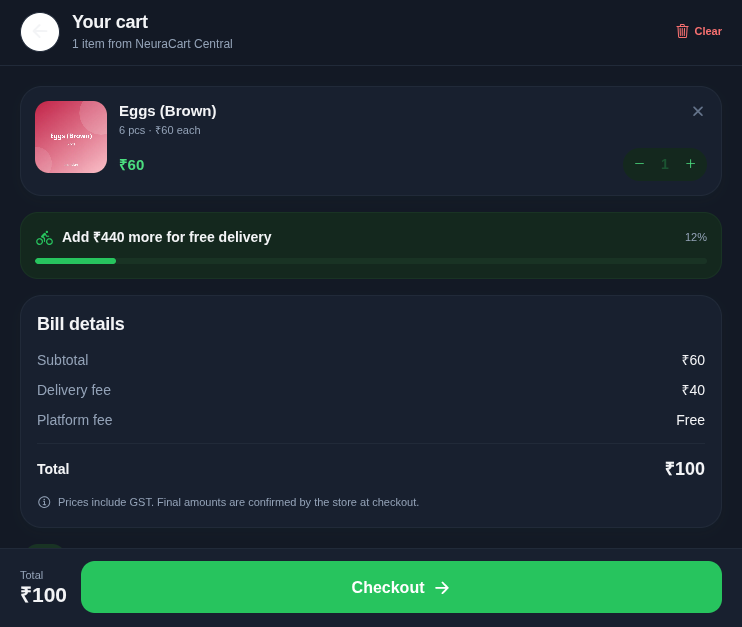
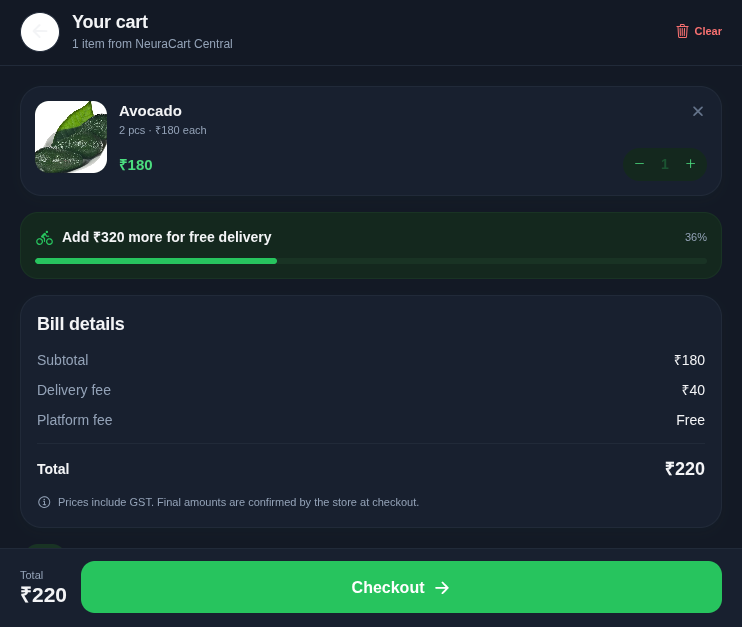
feat(catalog): double catalogue to 38 SKUs with real CC-licensed photography
- add papaya, pineapple, watermelon, lemons, avocado, cucumber, cauliflower,
  cabbage, peas, beans, ginger, garlic, chillies, mushrooms, wings, drumsticks,
  pomfret, keema and salmon
- commit 800x600 WebP product photos in backend/uploads/seed with attribution
  in docs/IMAGE_CREDITS.md
- seed: use NC- order numbers, NEURA50 referral code, refresh demo screenshots
- README: real catalogue screenshots and photography credits

diff --git a/backend/prisma/seed.ts b/backend/prisma/seed.ts
@@ -34,6 +34,11 @@ const PRODUCTS: ProductSeed[] = [
   { name: 'Oranges (Nagpur)', category: 'FRUITS', unit: '1 kg', price: 90, stock: 30, featured: false },
   { name: 'Grapes (Green)', category: 'FRUITS', unit: '500 g', price: 70, stock: 30, featured: false },
   { name: 'Pomegranate', category: 'FRUITS', unit: '1 kg', price: 160, stock: 20, featured: false },
+  { name: 'Papaya', category: 'FRUITS', unit: '1 pc', price: 55, stock: 25, featured: false },
+  { name: 'Pineapple', category: 'FRUITS', unit: '1 pc', price: 70, stock: 20, featured: false },
+  { name: 'Watermelon', category: 'FRUITS', unit: '1 pc', price: 90, stock: 15, featured: false },
+  { name: 'Lemons', category: 'FRUITS', unit: '250 g', price: 30, stock: 40, featured: false },
+  { name: 'Avocado', category: 'FRUITS', unit: '2 pcs', price: 180, stock: 12, featured: true },
   { name: 'Tomatoes (Hybrid)', category: 'VEGETABLES', unit: '1 kg', price: 40, stock: 50, featured: true },
   { name: 'Onions', category: 'VEGETABLES', unit: '1 kg', price: 35, stock: 60, featured: false },
   { name: 'Potatoes', category: 'VEGETABLES', unit: '1 kg', price: 30, stock: 60, featured: false },
@@ -41,12 +46,26 @@ const PRODUCTS: ProductSeed[] = [
   { name: 'Carrots', category: 'VEGETABLES', unit: '500 g', price: 45, stock: 35, featured: false },
   { name: 'Broccoli', category: 'VEGETABLES', unit: '1 pc', price: 80, stock: 20, featured: false },
   { name: 'Capsicum (Green)', category: 'VEGETABLES', unit: '500 g', price: 40, stock: 30, featured: false },
+  { name: 'Cucumber', category: 'VEGETABLES', unit: '500 g', price: 35, stock: 30, featured: false },
+  { name: 'Cauliflower', category: 'VEGETABLES', unit: '1 pc', price: 45, stock: 25, featured: false },
+  { name: 'Cabbage', category: 'VEGETABLES', unit: '1 pc', price: 35, stock: 25, featured: false },
+  { name: 'Green Peas', category: 'VEGETABLES', unit: '500 g', price: 60, stock: 20, featured: false },
+  { name: 'French Beans', category: 'VEGETABLES', unit: '500 g', price: 50, stock: 20, featured: false },
+  { name: 'Ginger', category: 'VEGETABLES', unit: '250 g', price: 40, stock: 25, featured: false },
+  { name: 'Garlic', category: 'VEGETABLES', unit: '250 g', price: 45, stock: 25, featured: false },
+  { name: 'Green Chillies', category: 'VEGETABLES', unit: '100 g', price: 15, stock: 30, featured: false },
+  { name: 'Button Mushrooms', category: 'VEGETABLES', unit: '200 g', price: 70, stock: 15, featured: false },
   { name: 'Chicken Breast', category: 'MEAT', unit: '500 g', price: 220, stock: 15, featured: true },
   { name: 'Chicken Curry Cut', category: 'MEAT', unit: '1 kg', price: 280, stock: 15, featured: false },
   { name: 'Mutton Curry Cut', category: 'MEAT', unit: '500 g', price: 420, stock: 10, featured: false },
   { name: 'Fish (Rohu)', category: 'MEAT', unit: '1 kg', price: 260, stock: 10, featured: false },
   { name: 'Prawns (Medium)', category: 'MEAT', unit: '500 g', price: 350, stock: 8, featured: false },
   { name: 'Eggs (Brown)', category: 'MEAT', unit: '6 pcs', price: 60, stock: 30, featured: false },
+  { name: 'Chicken Wings', category: 'MEAT', unit: '500 g', price: 200, stock: 12, featured: false },
+  { name: 'Chicken Drumsticks', category: 'MEAT', unit: '500 g', price: 210, stock: 12, featured: false },
+  { name: 'Fish (Pomfret)', category: 'MEAT', unit: '1 kg', price: 480, stock: 6, featured: false },
+  { name: 'Mutton Keema', category: 'MEAT', unit: '500 g', price: 450, stock: 8, featured: false },
+  { name: 'Salmon Fillet', category: 'MEAT', unit: '250 g', price: 520, stock: 6, featured: true },
 ];
 
 const RIDERS = [
@@ -161,7 +180,7 @@ async function createOrders(input: {
   riderUserId: string;
   products: Map<string, { id: string; price: Prisma.Decimal }>;
 }) {
-  const deliveredNumber = 'LM-20261021-0001';
+  const deliveredNumber = 'NC-20261021-0001';
   const deliveredExists = await prisma.order.findUnique({
     where: { orderNumber: deliveredNumber },
   });
@@ -237,7 +256,7 @@ async function createOrders(input: {
     });
   }
 
-  const activeNumber = 'LM-20261022-0001';
+  const activeNumber = 'NC-20261022-0001';
   const activeExists = await prisma.order.findUnique({
     where: { orderNumber: activeNumber },
   });
@@ -338,8 +357,8 @@ async function seedV2(input: {
   });
   await prisma.referralCode.upsert({
     where: { userId: customer.id },
-    create: { userId: customer.id, code: 'SUJAN50' },
-    update: {},
+    create: { userId: customer.id, code: 'NEURA50' },
+    update: { code: 'NEURA50' },
   });
 
   // ——— Recipes ———
@@ -728,7 +747,7 @@ async function main(): Promise<void> {  if (
   console.log('Admin:    admin@neuracart.app');
   console.log('Customer: customer@neuracart.app');
   console.log('Rider:    driver1@neuracart.app / NeuraCart@123');
-  console.log('Products: 19');
+  console.log('Products: 38');
 }
 
 main()

diff --git a/backend/src/modules/money/money.service.ts b/backend/src/modules/money/money.service.ts
@@ -56,7 +56,7 @@ export async function ensureReferral(tx: MoneyClient, userId: string) {
 }
 
 function makeReferralCode(userId: string): string {
-  // SUJAN50 style: first 5 of name aren't reliable here; use base32 of uuid.
+  // Referral style: first 5 of name aren't reliable here; use base32 of uuid.
   const alphabet = 'ABCDEFGHJKLMNPQRSTUVWXYZ23456789';
   let code = '';
   for (const char of userId.replace(/-/g, '')) {

diff --git a/backend/src/utils/orderNumber.ts b/backend/src/utils/orderNumber.ts
@@ -22,7 +22,7 @@ function istDayBounds(now: Date): { start: Date; end: Date } {
 }
 
 /**
- * Generates LM-YYYYMMDD-0001 using today's IST order count.
+ * Generates NC-YYYYMMDD-0001 using today's IST order count.
  * Must be called inside the order-placement transaction; retry on P2002.
  */
 export async function nextOrderNumber(

diff --git a/docs/IMAGE_CREDITS.md b/docs/IMAGE_CREDITS.md
@@ -1,0 +1,46 @@
+# Product image credits
+
+The demo storefront ships with real product photography. Every image in `backend/uploads/seed/` was downloaded from [Wikimedia Commons](https://commons.wikimedia.org/), cropped to 800×600 and re-encoded as WebP for fast loading. Images remain under the license shown below; follow the source link for the full license text and original file.
+
+| Product | Original file | Author | License | Source |
+| --- | --- | --- | --- | --- |
+| Bananas (Robusta) | Bunch of bananas on sale.jpg | Wilfredor | [CC0](http://creativecommons.org/publicdomain/zero/1.0/deed.en) | [Commons](https://commons.wikimedia.org/wiki/File:Bunch_of_bananas_on_sale.jpg) |
+| Apples (Shimla) | Red Apple.jpg | Abhijit Tembhekar from Mumbai, India | [CC BY 2.0](https://creativecommons.org/licenses/by/2.0) | [Commons](https://commons.wikimedia.org/wiki/File:Red_Apple.jpg) |
+| Mangoes (Alphonso) | Mangos - single and halved.jpg | Ivar Leidus | [CC BY-SA 4.0](https://creativecommons.org/licenses/by-sa/4.0) | [Commons](https://commons.wikimedia.org/wiki/File:Mangos_-_single_and_halved.jpg) |
+| Oranges (Nagpur) | Mandarin Oranges (Citrus Reticulata).jpg | Joe Ravi | [CC BY-SA 3.0](https://creativecommons.org/licenses/by-sa/3.0) | [Commons](https://commons.wikimedia.org/wiki/File:Mandarin_Oranges_(Citrus_Reticulata).jpg) |
+| Grapes (Green) | Green Grape 3.jpg | Martin Kozák | Public domain | [Commons](https://commons.wikimedia.org/wiki/File:Green_Grape_3.jpg) |
+| Pomegranate | Pomegranate fruit - whole and piece with arils.jpg | Ivar Leidus | [CC BY-SA 4.0](https://creativecommons.org/licenses/by-sa/4.0) | [Commons](https://commons.wikimedia.org/wiki/File:Pomegranate_fruit_-_whole_and_piece_with_arils.jpg) |
+| Papaya | Papaya - longitudinal section.jpg | Ivar Leidus | [CC BY-SA 4.0](https://creativecommons.org/licenses/by-sa/4.0) | [Commons](https://commons.wikimedia.org/wiki/File:Papaya_-_longitudinal_section.jpg) |
+| Pineapple | Pineapple fruit.jpg | Mibrahim74 | [CC BY 3.0](https://creativecommons.org/licenses/by/3.0) | [Commons](https://commons.wikimedia.org/wiki/File:Pineapple_fruit.jpg) |
+| Watermelon | Ripe watermelon Fruit.jpg | Salma kyari | [CC BY-SA 4.0](https://creativecommons.org/licenses/by-sa/4.0) | [Commons](https://commons.wikimedia.org/wiki/File:Ripe_watermelon_Fruit.jpg) |
+| Lemons | Lemon.jpg | André Karwath aka Aka | [CC BY-SA 2.5](https://creativecommons.org/licenses/by-sa/2.5) | [Commons](https://commons.wikimedia.org/wiki/File:Lemon.jpg) |
+| Avocado | Avocado IMGP1082.jpg | Nikodem Nijaki | [CC BY-SA 3.0](https://creativecommons.org/licenses/by-sa/3.0) | [Commons](https://commons.wikimedia.org/wiki/File:Avocado_IMGP1082.jpg) |
+| Tomatoes (Hybrid) | Tomatoes.jpg | Wilfredor | [CC0](https://creativecommons.org/publicdomain/zero/1.0/) | [Commons](https://commons.wikimedia.org/wiki/File:Tomatoes.jpg) |
+| Onions | Onion on White.JPG | Colin | [CC BY-SA 3.0](https://creativecommons.org/licenses/by-sa/3.0) | [Commons](https://commons.wikimedia.org/wiki/File:Onion_on_White.JPG) |
+| Potatoes | Potato tubers in pail.jpg | Ruslan V. Albitsky aka pauk | [CC BY-SA 3.0](https://creativecommons.org/licenses/by-sa/3.0) | [Commons](https://commons.wikimedia.org/wiki/File:Potato_tubers_in_pail.jpg) |
+| Spinach | Spinach leaves.jpg | Nillerdk | [CC BY 3.0](https://creativecommons.org/licenses/by/3.0) | [Commons](https://commons.wikimedia.org/wiki/File:Spinach_leaves.jpg) |
+| Carrots | Vegetable-Carrot-Bundle-wStalks.jpg | Evan-Amos | Public domain | [Commons](https://commons.wikimedia.org/wiki/File:Vegetable-Carrot-Bundle-wStalks.jpg) |
+| Broccoli | Broccoli DSC00861.png | David Monniaux | [CC BY-SA 3.0](http://creativecommons.org/licenses/by-sa/3.0/) | [Commons](https://commons.wikimedia.org/wiki/File:Broccoli_DSC00861.png) |
+| Capsicum (Green) | Green Bell Pepper.jpg | Gaurav Dhwaj Khadka | [CC BY-SA 4.0](https://creativecommons.org/licenses/by-sa/4.0) | [Commons](https://commons.wikimedia.org/wiki/File:Green_Bell_Pepper.jpg) |
+| Cucumber | Cucumber fruit in illorin.jpg | Eunice Ameh | [CC0](http://creativecommons.org/publicdomain/zero/1.0/deed.en) | [Commons](https://commons.wikimedia.org/wiki/File:Cucumber_fruit_in_illorin.jpg) |
+| Cauliflower | Cauliflower heads on a shelf.jpg | Jeffery Martin | [CC0](http://creativecommons.org/publicdomain/zero/1.0/deed.en) | [Commons](https://commons.wikimedia.org/wiki/File:Cauliflower_heads_on_a_shelf.jpg) |
+| Cabbage | Green cabbage.jpg | Camilopiz | [CC0](http://creativecommons.org/publicdomain/zero/1.0/deed.en) | [Commons](https://commons.wikimedia.org/wiki/File:Green_cabbage.jpg) |
+| Green Peas | India - Varanasi green peas - 2714.jpg | Jorge Royan | [CC BY-SA 3.0](https://creativecommons.org/licenses/by-sa/3.0) | [Commons](https://commons.wikimedia.org/wiki/File:India_-_Varanasi_green_peas_-_2714.jpg) |
+| French Beans | Four Different Varieties of Green Beans (Phaseolus vulgaris).jpg | Christopher Franz | [CC BY-SA 4.0](https://creativecommons.org/licenses/by-sa/4.0) | [Commons](https://commons.wikimedia.org/wiki/File:Four_Different_Varieties_of_Green_Beans_(Phaseolus_vulgaris).jpg) |
+| Ginger | Ginger Root.jpg | Sanjay Acharya | [CC BY-SA 4.0](https://creativecommons.org/licenses/by-sa/4.0) | [Commons](https://commons.wikimedia.org/wiki/File:Ginger_Root.jpg) |
+| Garlic | Opened garlic bulb with garlic clove.jpg | Dubravko Sorić SoraZG on Flickr | [CC BY 2.0](https://creativecommons.org/licenses/by/2.0) | [Commons](https://commons.wikimedia.org/wiki/File:Opened_garlic_bulb_with_garlic_clove.jpg) |
+| Green Chillies | Green chillies.jpg | Rajesh Dangi | [CC BY 2.5](https://creativecommons.org/licenses/by/2.5) | [Commons](https://commons.wikimedia.org/wiki/File:Green_chillies.jpg) |
+| Button Mushrooms | Agaricus bisporus Zuchtchampignon.JPG | böhringer friedrich | [CC BY-SA 2.5](https://creativecommons.org/licenses/by-sa/2.5) | [Commons](https://commons.wikimedia.org/wiki/File:Agaricus_bisporus_Zuchtchampignon.JPG) |
+| Chicken Breast | CHICKEN BREAST.jpg | MrBeastRapper | [CC BY-SA 4.0](https://creativecommons.org/licenses/by-sa/4.0) | [Commons](https://commons.wikimedia.org/wiki/File:CHICKEN_BREAST.jpg) |
+| Chicken Curry Cut | Raw chicken thighs.jpg | gran | [CC BY 3.0](https://creativecommons.org/licenses/by/3.0) | [Commons](https://commons.wikimedia.org/wiki/File:Raw_chicken_thighs.jpg) |
+| Mutton Curry Cut | Raw lamb cutlets with shredded ginger and rosemary.jpg | Photo by User:Salimfadhley | [CC BY-SA 3.0](http://creativecommons.org/licenses/by-sa/3.0/) | [Commons](https://commons.wikimedia.org/wiki/File:Raw_lamb_cutlets_with_shredded_ginger_and_rosemary.jpg) |
+| Fish (Rohu) | Labeo rohita.JPG | Khalid Mahmood | [CC BY-SA 4.0](https://creativecommons.org/licenses/by-sa/4.0) | [Commons](https://commons.wikimedia.org/wiki/File:Labeo_rohita.JPG) |
+| Prawns (Medium) | Liat Portal for Foodie Disorder - Fresh Shrimp.jpg | HaJunkiyada | [CC BY-SA 4.0](https://creativecommons.org/licenses/by-sa/4.0) | [Commons](https://commons.wikimedia.org/wiki/File:Liat_Portal_for_Foodie_Disorder_-_Fresh_Shrimp.jpg) |
+| Eggs (Brown) | Brown chicken eggs.jpg | Piasoft | [CC BY-SA 3.0](https://creativecommons.org/licenses/by-sa/3.0) | [Commons](https://commons.wikimedia.org/wiki/File:Brown_chicken_eggs.jpg) |
+| Chicken Wings | Raw chicken wings.jpg | ProjectManhattan | [CC BY-SA 3.0](https://creativecommons.org/licenses/by-sa/3.0) | [Commons](https://commons.wikimedia.org/wiki/File:Raw_chicken_wings.jpg) |
+| Chicken Drumsticks | Raw chicken drumsticks (3312851753).jpg | Geoff Peters from Vancouver, BC, Canada | [CC BY 2.0](https://creativecommons.org/licenses/by/2.0) | [Commons](https://commons.wikimedia.org/wiki/File:Raw_chicken_drumsticks_(3312851753).jpg) |
+| Fish (Pomfret) | Pomfret white.JPG | Noblevmy at Malayalam Wikipedia | [CC BY 3.0](https://creativecommons.org/licenses/by/3.0) | [Commons](https://commons.wikimedia.org/wiki/File:Pomfret_white.JPG) |
+| Mutton Keema | Hakket-oksekoed.jpg | Gajda-13 at Danish Wikipedia | [CC BY-SA 3.0](http://creativecommons.org/licenses/by-sa/3.0/) | [Commons](https://commons.wikimedia.org/wiki/File:Hakket-oksekoed.jpg) |
+| Salmon Fillet | Salmon fillet.JPG | BrokenSphere | [CC BY-SA 3.0](https://creativecommons.org/licenses/by-sa/3.0) | [Commons](https://commons.wikimedia.org/wiki/File:Salmon_fillet.JPG) |
+
+If you reuse this demo, keep this file with the images — the licenses above require attribution.

diff --git a/README.md b/README.md
@@ -104,7 +104,7 @@ Every AI feature shares one pipeline: **signal → context → guardrails → mo
 ### Customer app
 
 - **Auth** — email OTP (hashed, rate-limited, 10-minute expiry) and **Google sign-in** when OAuth credentials are configured. JWT access tokens (15 min) + rotating refresh tokens (7 days) with reuse detection.
-- **Shopping** — category tabs, search, featured rails, product detail, stock awareness, quantity stepper, cart persisted per user.
+- **Shopping** — 38 fruits, vegetables, and meat SKUs with real CC-licensed photography, category tabs, search, featured rails, product detail, stock awareness, quantity stepper, cart persisted per user.
 - **Checkout** — saved addresses, delivery vs store pickup, two-hour slots with capacity, wallet redemption, loyalty points, COD or online payment, order notes.
 - **After the order** — live status timeline, rider tracking map, cancellation windows, reorder, ratings and reviews, invoice-style totals.
 - **Money** — wallet ledger, loyalty tiers, referral code, near-expiry flash deals.
@@ -222,7 +222,7 @@ npm run db:seed
 cd ..
 ```
 
-The seed creates the store, ~30 products, recipes, slots, deals, a manager, a customer, and 10 riders.
+The seed creates the store, **38 products** across fruits, vegetables, and meat, recipes, slots, deals, a manager, a customer, and 10 riders. Every product ships with a real, CC-licensed photograph from Wikimedia Commons (committed under `backend/uploads/seed/`); see [`docs/IMAGE_CREDITS.md`](./docs/IMAGE_CREDITS.md) for attribution.
 
 ### 5. Run all four processes
 
@@ -406,7 +406,7 @@ cd delivery && npm run lint && npx tsc --noEmit
 - **Single store, single city.** Multi-store and multi-warehouse are deliberately out of scope; the schema keeps a `storeId` so it is not a rewrite.
 - **i18n is partial by design.** Tabs, home, profile, and help are translated; deeper screens fall back to English. The catalogue is English.
 - **No Redis.** OAuth state, rate limits, and the SSE fan-out are in-process. Run one API instance; horizontal scaling needs Redis.
-- **Local uploads.** Fine for dev; production should swap to S3-compatible storage.
+- **Local uploads.** Seed photography is committed for offline demos; manager uploads still land on local disk. Production should swap to S3-compatible storage.
 - **Google OAuth needs your credentials.** The code path, state handling, and UI gating are done; the round-trip is untested until keys exist.
 - **AI is optional.** With no `GEMINI_API_KEY`, every feature uses a deterministic fallback. That is intentional, not a stub.
 

diff --git a/plan.md b/plan.md
@@ -54,7 +54,7 @@ The source is a code-along, not a specification. It contains live debugging, inc
 1. Monorepo, env validation, Postgres, Prisma schema, migration, seed.
 2. Logger, response helpers, JWT/OTP/password utils, error handler.
 3. Auth module + RBAC + Resend OTP; verify with curl and a real inbox.
-4. Products module + upload pipeline; seed 19 products.
+4. Products module + upload pipeline; seed 38 products with real photography.
 5. Addresses module + ownership/default rules.
 6. Orders module: pricing, transaction, stock, status machine, history.
 7. Delivery module: assignments, start, complete, earnings.
@@ -372,7 +372,7 @@ Priority: **P0** = launch blocker, **P1** = launch, **P2** = v1.1.
 | FR-P-10 | Order status emails (placed, confirmed, out for delivery, delivered, cancelled). | P1 |
 | FR-P-11 | Daily log files; no secrets/PII. | P0 |
 | FR-P-12 | Health endpoint and graceful shutdown. | P0 |
-| FR-P-13 | Seed script: store, admin, customer, 10 riders, 19 products, 2 orders. | P0 |
+| FR-P-13 | Seed script: store, admin, customer, 10 riders, 38 products with real photography, 2 orders. | P0 |
 | FR-P-14 | OpenAPI/Swagger docs. | P1 |
 | FR-P-15 | Admin stats and rider management endpoints. | P1 |
 | FR-P-16 | Online payment + webhook (v1.1). | P2 |
